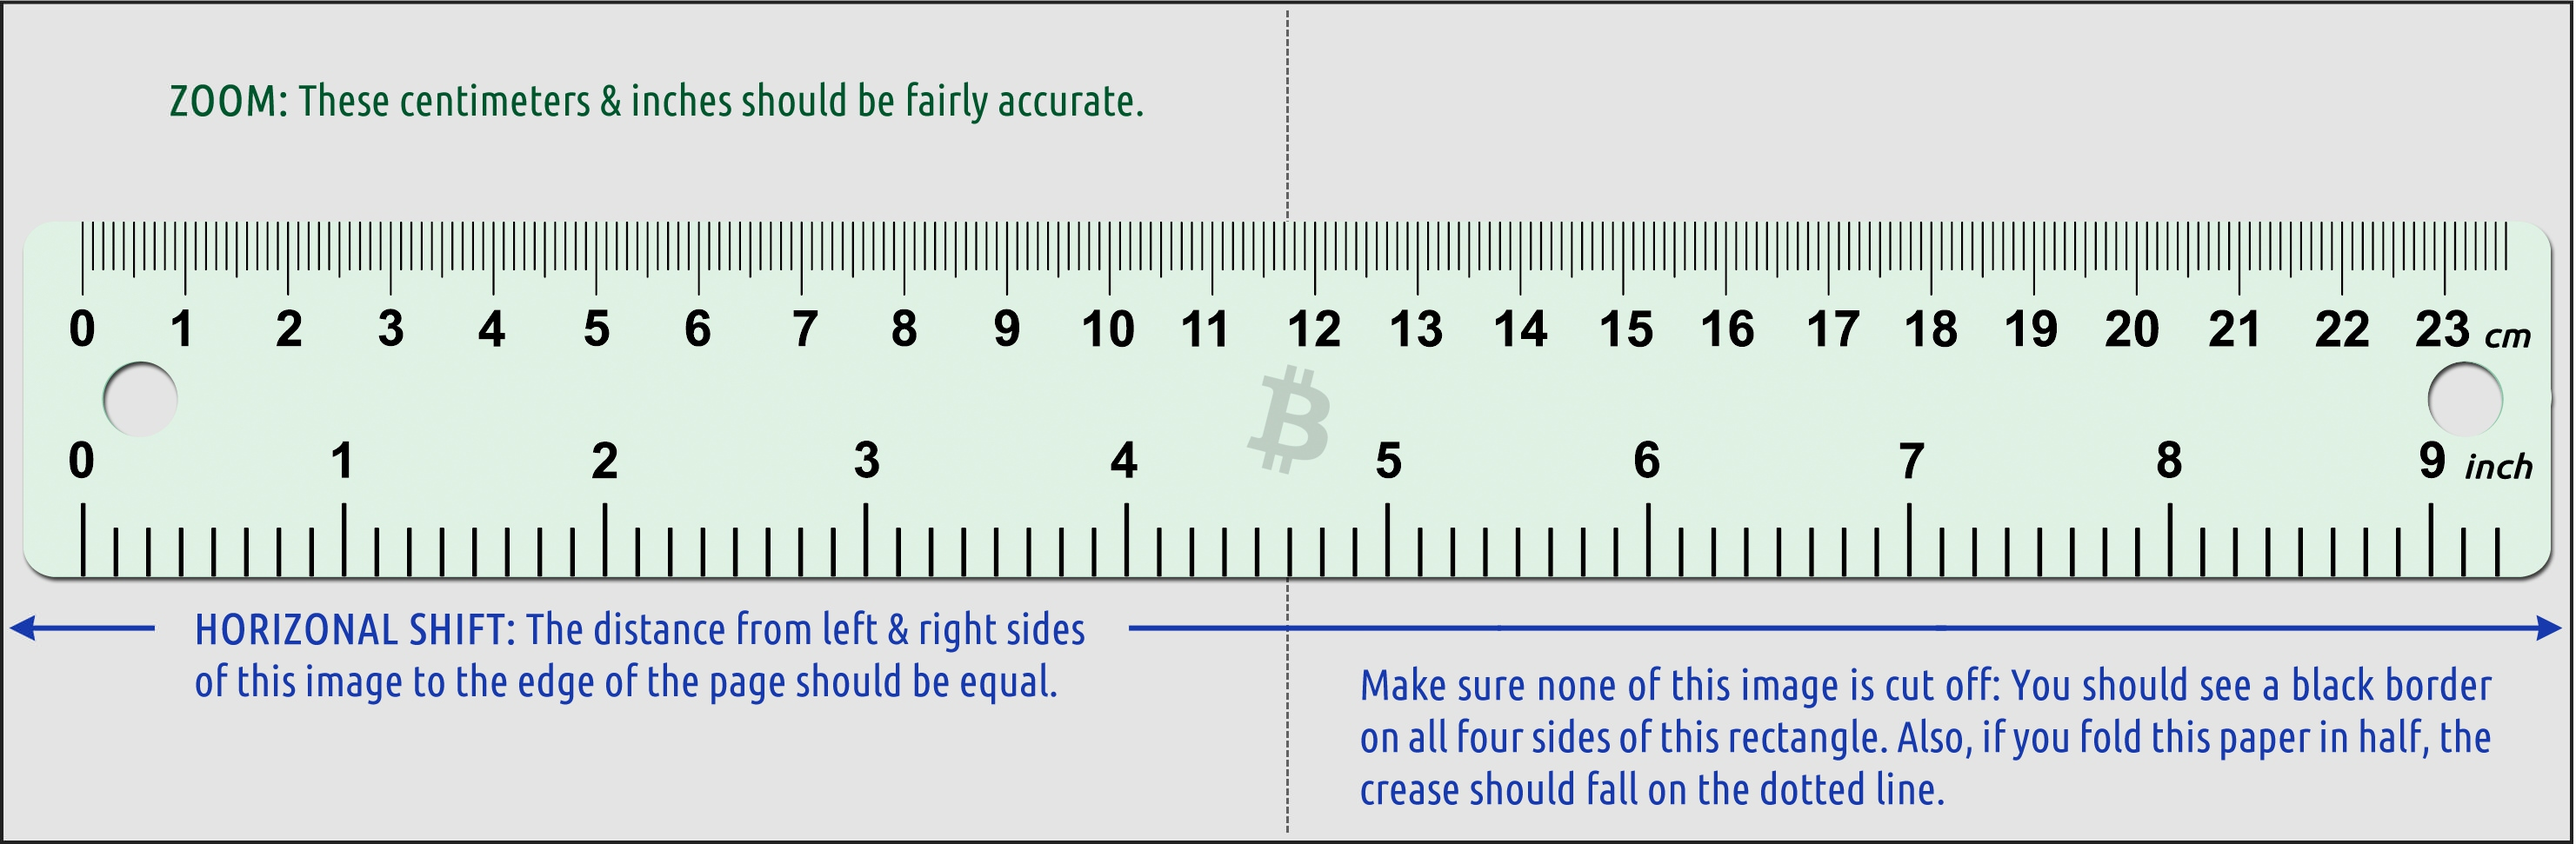
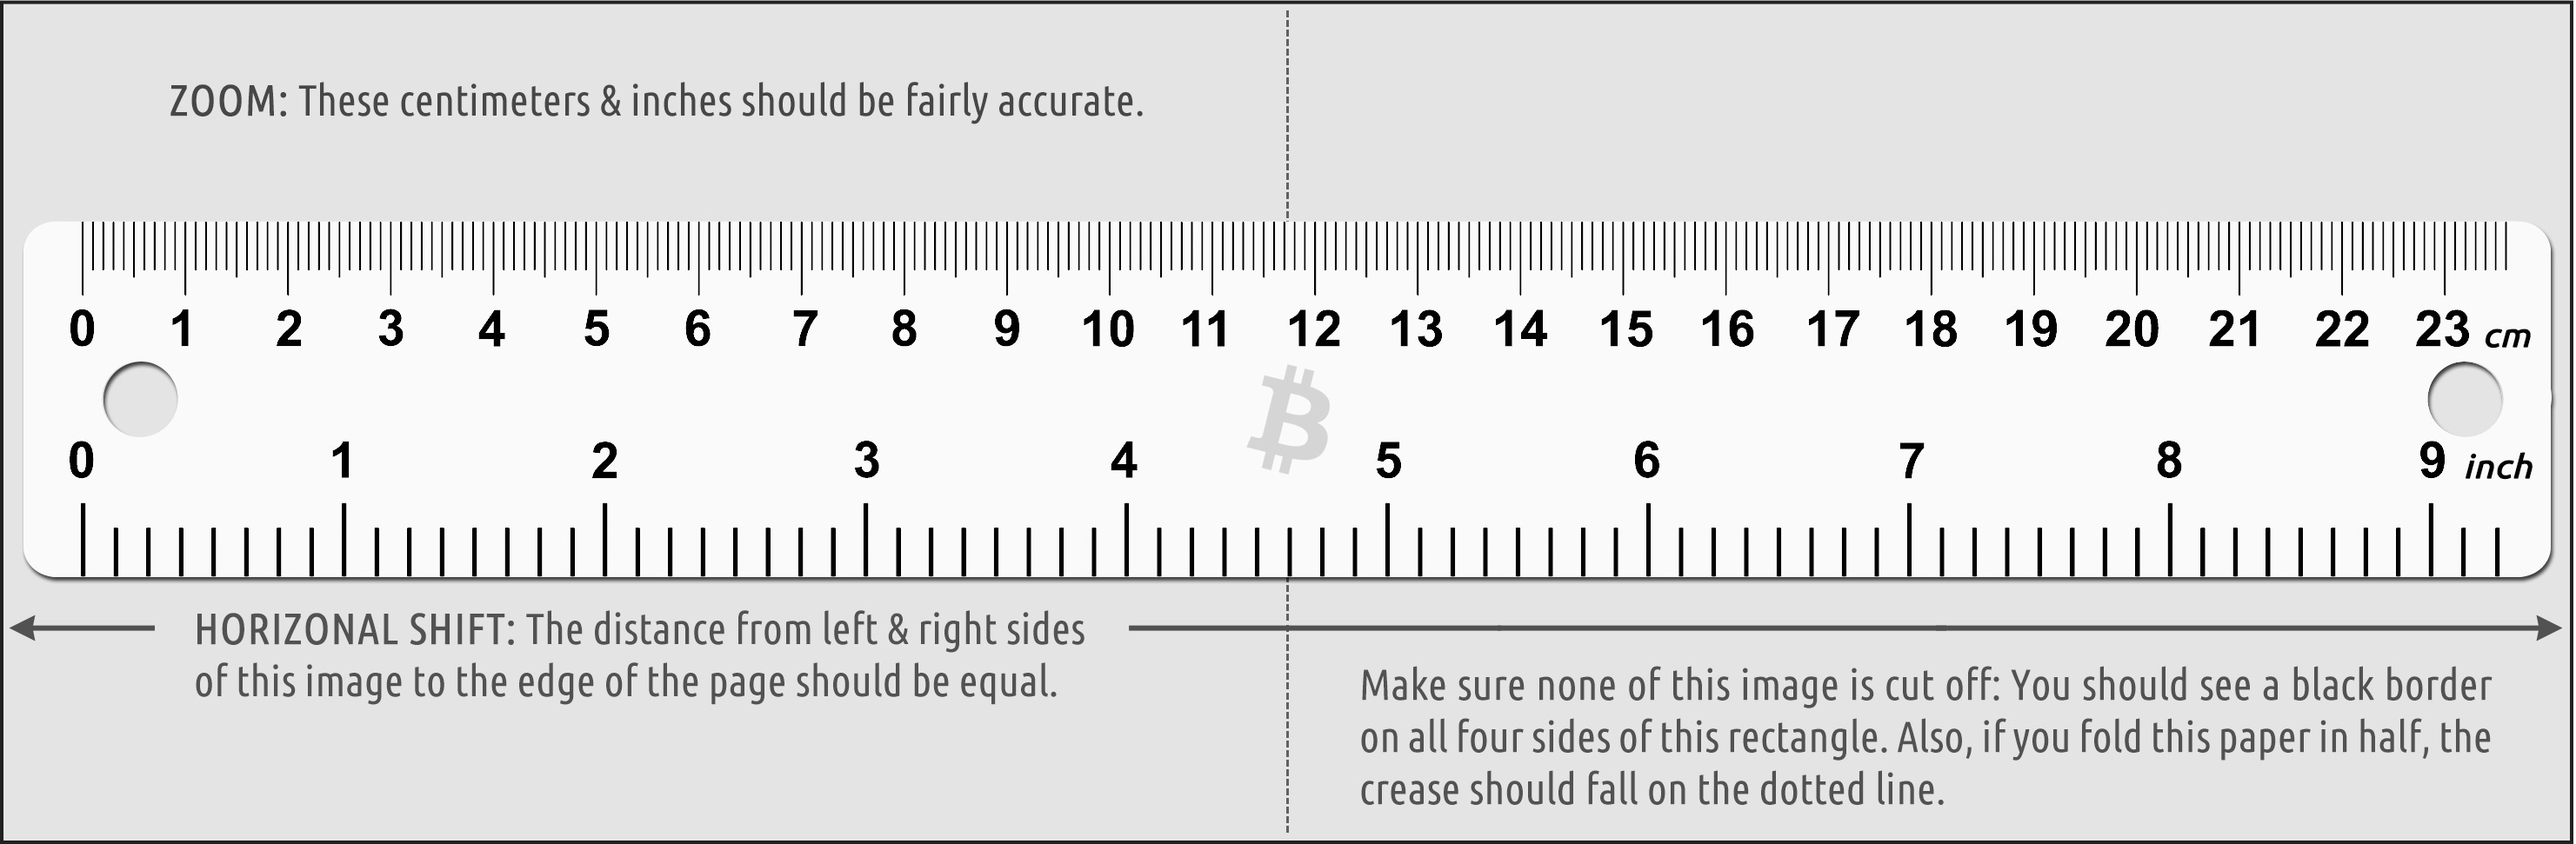
Language addition, minor interface changes
Added polish translation.

On “Validate/Decrypt” tab, now hiding compressed keys by default since
these confuse novices. (Now there’s a link that allows you to reveal
compressed keys.)

Calibration graphic is now greyscale so as not to waste color ink/tonor.

Disabled unit testing when using Testnet, Litecoin, Dogecoin since the
unit tests only work for Bitcoin.

PGP signature updated.

diff --git a/generate-wallet.html b/generate-wallet.html
@@ -19,7 +19,7 @@
     is copyrighted. As a courtesy, please do not modify this software in such a way that the
     links to purchase hologram stickers and wallet making supplies are removed or pointed elsewhere.
      
-    This software (HTML and JavaScript) is ©Copyright 2014 Canton Becker and bitaddress.org
+    This software (HTML and JavaScript) is ©Copyright 2016 Canton Becker and bitaddress.org
     and licensed under the MIT license.
     
     Special thanks to pointbiz/bitaddress.org, Artiom Chilaru/flexlabs.org, and Martin Ankerl
@@ -10410,7 +10410,7 @@ Bitcoin.Util = {
               <span><a href="?culture=fr" id="culturefr">Français</a></span> -->
               &nbsp;
           	</div>
-			<div id="tagline">Open Source JavaScript <script type="text/javascript">document.write(window.currencyName);</script> Paper Wallet Generator <span>Updated Jan 31, 2015</span></div>
+			<div id="tagline">Open Source JavaScript <script type="text/javascript">document.write(window.currencyName);</script> Paper Wallet Generator <span>Updated Feb 23, 2016</span></div>
 			<div id="tagsite">For help, security tips, or wallet making supplies visit <a href="https://bitcoinpaperwallet.com">bitcoinpaperwallet.com</a></div>
             <div id="tagwarning"></div>
 			<div id="seedpoolarea"><textarea rows="16" cols="62" id="seedpool"></textarea></div>
@@ -10505,7 +10505,7 @@ Bitcoin.Util = {
 						  }
 						</script>
                         </li>
-                        <li><strong>?</strong> Are you using a secure operating system installation guaranteed to be free of spyware and viruses, for example, the <a href="#" onClick="window.open('https://bitcoinpaperwallet.com/ubuntu-linux-live-bootable-cd/', '_blank'); return false;">Ubuntu LiveCD?</a></li>
+                        <li><strong>?</strong> Are you using a secure operating system installation guaranteed to be free of spyware and viruses, for example, an <a href="#" onClick="window.open('https://bitcoinpaperwallet.com/ubuntu-linux-live-bootable-cd/', '_blank'); return false;">Ubuntu LiveCD?</a></li>
                         </ul>
                         
                         <p><a href="https://bitcoinpaperwallet.com/#security" target="_blank">More security tips and answers to frequently asked questions &raquo;</a></p>
@@ -10539,6 +10539,7 @@ Bitcoin.Util = {
                             <option value="hebrew">Hebrew</option>
                             <option value="italian">Italian</option>
                             <option value="japanese">Japanese</option>
+                            <option value="polish">Polish</option>
                             <option value="portuguese">Portuguese</option>
                             <option value="russian">Russian</option>
                             <option value="spanish">Spanish</option>
@@ -10632,7 +10633,7 @@ Find your scissors! The final step is to cut out your wallet, fold it, and seal 
                    <br />
                    You can make a so-called "brain wallet" by supplying a VERY secure passphrase like '1852 Adobe Cloud SMASH fuzzy steamzonk'. <em>Be extremely careful doing this because a wallet generated using an insecure passphrase is virtually guaranteed to have its balance stolen!</em>.
                    <br />
-                   <br />The resulting paper wallet will still have an ordinary crypto-looking private key and public address, but you will <em>also</em> be able to retrieve your wallet contents by entering your passphrase into the 'verify' tab of this service or a similar service such as <a href="https://brainwallet.org" target="_blank">brainwallet.org</a>.<br /><br />
+                   <br />The resulting paper wallet will still have an ordinary crypto-looking private key and public address, but you will <em>also</em> be able to retrieve your wallet contents by entering your passphrase into the 'verify' tab of this service or a similar service.<br /><br />
                     <strong>Note:</strong> supplying a brain wallet passphrase is different from BIP38-encrypting your wallet with a passphrase.
 				   <br />
                    <br />
@@ -10913,7 +10914,12 @@ Find your scissors! The final step is to cut out your wallet, fold it, and seal 
 							<div id="detailqrcodepublic" class="qrcode_public"></div>
 							<span class="output" id="detailaddress"></span>
 						</div>					
-						<div class="item right">
+
+						<div class="item right" style="display:block;" id="compressedpicker">
+						<a href="#" onClick="document.getElementById('compressed1').style.display='block'; document.getElementById('compressed2').style.display='block';  document.getElementById('compressedpicker').style.display='none'; return(false);">Display compressed format keys?</a>
+						</div>
+
+						<div class="item right" style="display: none;" id="compressed1">
 							<span class="label" id="detaillabelbitcoinaddresscomp"><script type="text/javascript">document.write(window.currencyName);</script> Address Compressed Format</span>
 							<div id="detailqrcodepubliccomp" class="qrcode_public"></div>
 							<span class="output" id="detailaddresscomp"></span>
@@ -10935,7 +10941,7 @@ Find your scissors! The final step is to cut out your wallet, fold it, and seal 
 							<div id="detailqrcodeprivate" class="qrcode_private"></div>
 							<span class="output" id="detailprivwif"></span>
 						</div>
-						<div class="item right">
+						<div class="item right" style="display:none;" id="compressed2">
 							<span class="label"><span id="detaillabelprivwifcomp">Private Key WIF Compressed<br />52 characters base58, starts with a</span> '<script type="text/javascript">document.write(window.compressedWIFPrefix);</script>'</span>
 							<div id="detailqrcodeprivatecomp" class="qrcode_private"></div>
 							<span class="output" id="detailprivwifcomp"></span>
@@ -11015,7 +11021,7 @@ Find your scissors! The final step is to cut out your wallet, fold it, and seal 
                 
 			</div>
 			<div class="copyright">
-				<span id="footerlabelcopyright1">&copy; The folding wallet design and tamper-evident seals are Copyright 2014 by Canton Becker.</span>
+				<span id="footerlabelcopyright1">&copy; The folding wallet design and tamper-evident seals are Copyright 2016 by Canton Becker.</span>
 				<span id="footerlabelcopyright2">This software may be modified and redistributed as per the MIT/GPL/BSD/Apache licenses described in the HTML source code. However, the folding paper wallet design itself may not be modified or redistributed for commercial purposes without permission.</span><br />
 				<span id="footerlabelnowarranty"><strong>This software and service is provided with no warranty. Use at your own risk.</strong></span>
 
@@ -11702,7 +11708,7 @@ ninja.publicKey = {
 				"footerlabelpgp": "Clave pública PGP",
 				"footerlabelversion": "Histórico de versiones",
 				"footerlabelgithub": "Repositorio GitHub",
-				"footerlabelcopyright1": "&copy; Copyright 2014 Canton Becker and bitaddress.org.",
+				"footerlabelcopyright1": "&copy; Copyright 2016 Canton Becker and bitaddress.org.",
 				"footerlabelcopyright2": "Copyright del código JavaScript: en el fuente.",
 				"footerlabelnowarranty": "Sin garantía.",
 
@@ -11732,7 +11738,7 @@ ninja.publicKey = {
 				"footerlabelpgp": "Clé Publique PGP",
 				"footerlabelversion": "Historique De Version Signé",
 				"footerlabelgithub": "Dépôt GitHub",
-				"footerlabelcopyright1": "&copy; Copyright 2014 Canton Becker and bitaddress.org.",
+				"footerlabelcopyright1": "&copy; Copyright 2016 Canton Becker and bitaddress.org.",
 				"footerlabelcopyright2": "Les droits d'auteurs JavaScript sont inclus dans le code source.",
 				"footerlabelnowarranty": "Aucune garantie.",
 				"newaddress": "Générer Une Nouvelle Adresse",
@@ -13678,6 +13684,22 @@ function setDesign (whichDesign, isOnLoad, whichLanguage) {
 			backInst4: "このウォレットからビットコインを出金する際には、<strong>全ての残高</strong>を出金してください。一部を残して出金した場合、残ったビットコインが永遠に失われる恐れがあります。<br /><br />詳しい情報は、bitcoinpaperwallet.comを参照してください。",
 		},
 
+		'polish': {
+			publicAddress: "ADRES PUBLICZNY",
+			depositVerify: "WPŁATA / WERYFIKACJA",
+			privateKey: "KLUCZ PRYWATNY",
+			walletImportFormat: "WALLET IMPORT FORMAT",
+			withdraw: "KLUCZ PRYWATNY / WYPŁATA",
+			backPaperWallet: "PAPIEROWY PORTFEL BITCOIN",
+			backAmount: "Wpłacona kwota",
+			backDate: "Data",
+			backNotes: "Uwagi:",
+			backInst1: "Aby wpłacić dodatkowe fundusze do tego portfela, wyślij bitcoiny na publiczny adres.",
+			backInst2: "Sprawdź dostępne środki szukając publicznego adresu w usługach takich jak <u>blockchain.info</u>.",
+			backInst3: "<strong>Nie odsłaniaj prywatnego klucza</strong>, dopóki nie jesteś gotowy na wydanie wszystkich bitcoinów znajdujących się w tym portfelu.",
+			backInst4: "Podczas wypłacania środków, <strong>powinieneś wypłacić WSZYSTKO</strong>. Jeśli spróbujesz wydać tylko trochę, prawdopodobnie stracisz całą resztę. Na zawsze.<br />Instrukcje znajdziesz na <u>bitcoinpaperwallet.com</u>.",
+		},
+
 		'portuguese': {
 			publicAddress: "ENDEREÇO PÚBLICO",
 			depositVerify: "DEPOSITE / VERIFIQUE",
@@ -13832,6 +13854,8 @@ function setDenomination(valueAndUnit) {
 	}
 }
 
+// disable unit testing if we are not working with regular old bitcoin
+if (window.currencyName != 'Bitcoin') document.getElementById('footerlabeltests').style.display='none';
 </script>
 
 </body>
